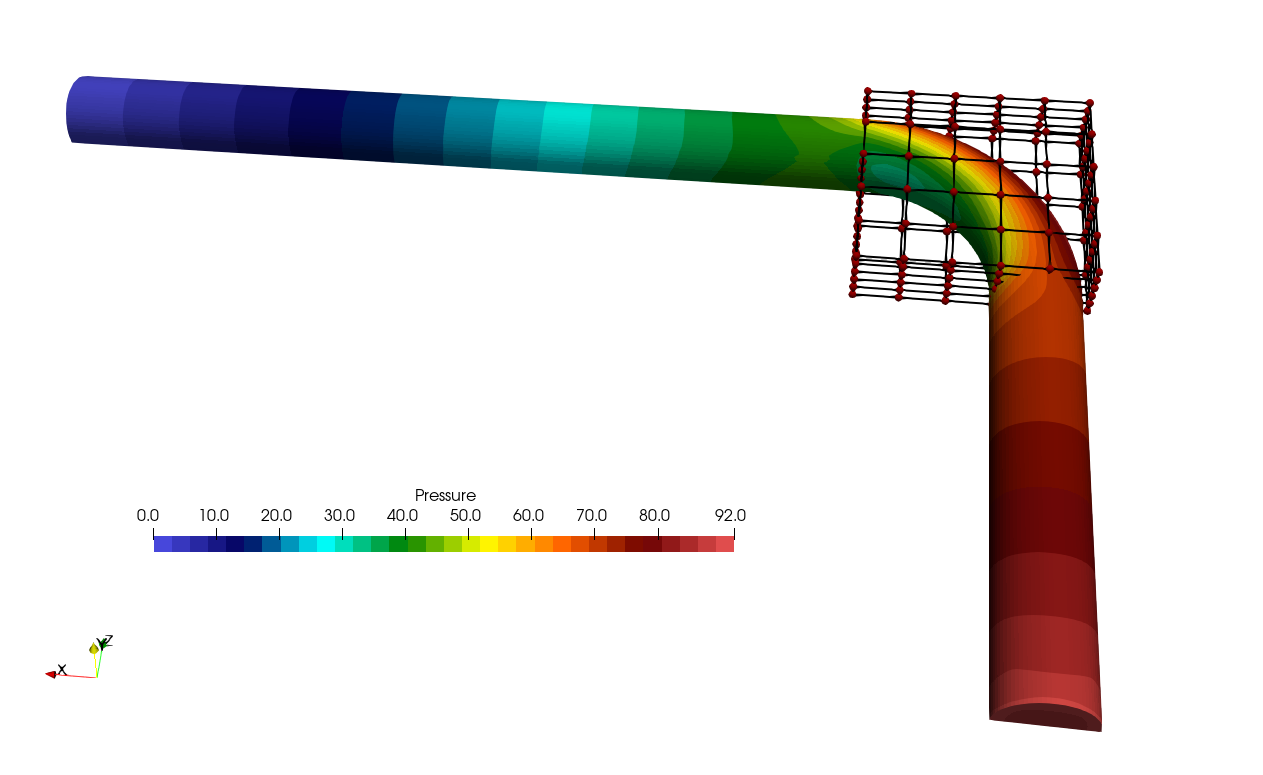
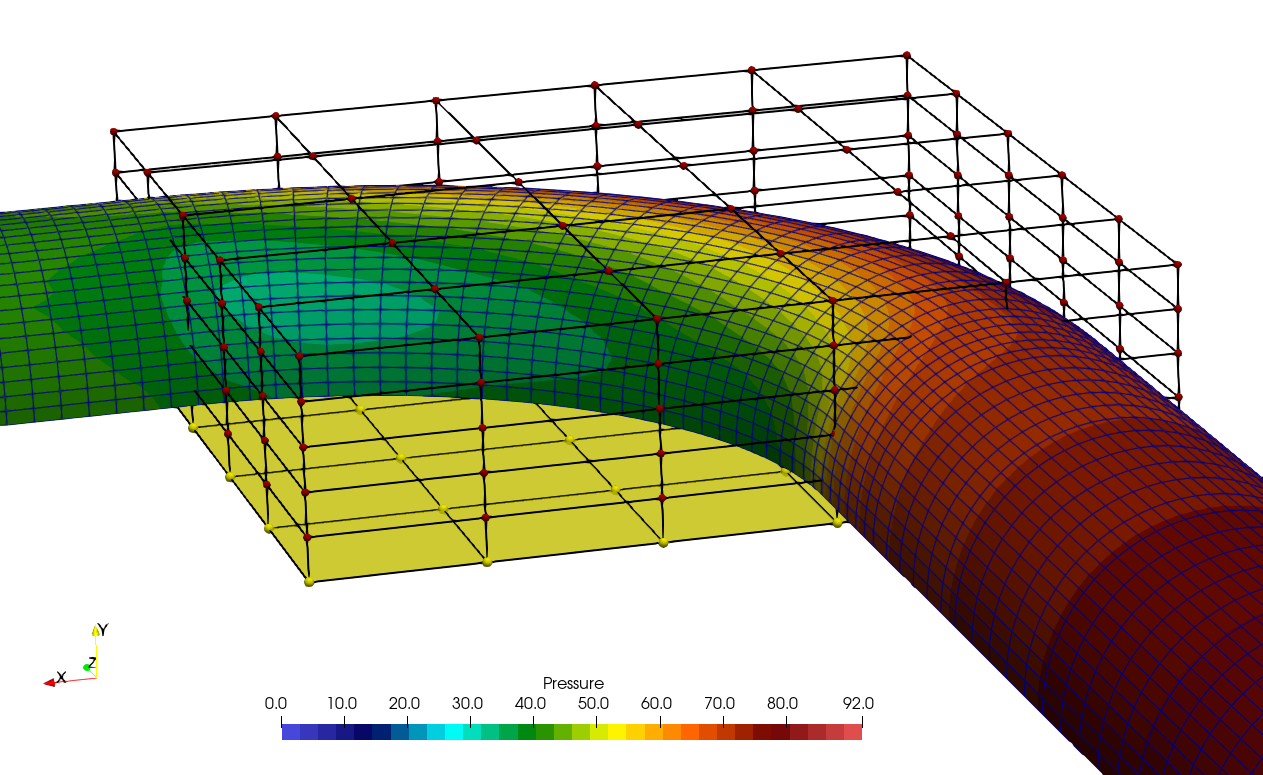
apply requested changes

diff --git a/_tutorials/design_features/Inc_Turbulent_Bend_Opt/Inc_Turbulent_Bend_Opt.md b/_tutorials/design_features/Inc_Turbulent_Bend_Opt/Inc_Turbulent_Bend_Opt.md
@@ -18,19 +18,9 @@ follows: Inc_Turbulent_Bend
 #### Figure (1): The 90 degree bend with the FFD box.
 
 
-## Prerequisites
-
-This Tutorial builds directly on the case given as Prerequisite on the top of the site, see [Species Transport](/tutorials/Species_Transport/) and [Turbulent bend with wall functions](/tutorials/Inc_Turbulent_Bend/). Therefore details to the problem setup, mesh, etc. are not repeated here. However the process outlined in this tutorial is directly applicable to many other cases using SU2.
-
-Note that the script provided uses 8 cores, so you need to compile with mpi support as well as enable autodiff:
-```
-./meson.py build --optimization=2 -Ddebug=false -Denable-autodiff=true -Dwith-mpi=enabled --prefix=/home/user/Codes/su2_github_develop/su2/
-```
-
-
 ## Goals
 
-This tutorial closely follows the design optimization setup of the 2D mixing channel. We will use the python framework [FADO](https://github.com/su2code/FADO) to set up the optimization problem. In this tutorial however we will optimize the pressure drop of the 90 degree pipe bend. The CFD results were already discussed previously in  [this tutorial](/tutorials/Inc_Turbulent_Bend/). Here we focus on the following aspects:
+This tutorial closely follows the design optimization setup of the 2D mixing channel, see the tutorial on design optimization for [Species Transport](/tutorials/Species_Transport/). We will use the python framework [FADO](https://github.com/su2code/FADO) to set up the optimization problem. In this tutorial however we will optimize the pressure drop of the 90 degree pipe bend. The CFD results were already discussed previously in  [this tutorial](/tutorials/Inc_Turbulent_Bend/). Here we focus on the following aspects:
 * Setup of the FFD box for a 3D problem using SU2_DEF.
 * Setup of the FADO problem: 
 	- using previous solutions of the CFD and adjoint solver to reduce computing time.
@@ -40,16 +30,23 @@ This tutorial closely follows the design optimization setup of the 2D mixing cha
 
 If you have not done so already, please first have a look at the prerequisite tutorials for a better understanding.
 
+## Prerequisites
+
+Besides the python library FADO, you will need to compile SU2 with automatic differentiation support. Note that the script provided uses 8 cores, so you need to compile with mpi support as well as enable autodiff:
+```
+./meson.py build --optimization=2 -Ddebug=false -Denable-autodiff=true -Dwith-mpi=enabled --prefix=/home/user/Codes/su2_github_develop/su2/
+```
+
 ## Resources
 
 You can find the resources for this tutorial in the folder [design/Inc_Turbulent_Bend_Wallfunctions](https://github.com/su2code/Tutorials/tree/master/design/Inc_Turbulent_Bend_Wallfunctions) and the respective subfolders. Note that the setup used in this tutorial uses a pipe bend with a shorter pipe length before and after the bend to reduce the computing time. We have also merged all wall boundaries and all symmetry planes into one wall boundary and one symmetry plane. The gmsh file is provided in the repository so you can create your own pipe bend(s) with it.
 
 ## 1. Basic setup of FFD box and FADO
-Usually, designs are created with a CAD tool. These designs are then discretized into a computational mesh for CFD analysis. When optimizing a design, we usually only have the discretized mesh available. We could manipulate the mesh nodes directly but this usually does not lead to very smooth deformations. Instead we modify our mesh using FFD boxes. The nodes of the FFD box are moved according to the design sensitivities, and the mesh nodes inside the FFD box are then smoothly deformed using Bezier curves (default) or B-splines.
+Usually, designs are created with a CAD tool. These designs are then discretized into a computational mesh for CFD analysis. When optimizing a design, we then only have the discretized mesh available. We could manipulate the mesh nodes directly but this does not lead to very smooth deformations. Instead we modify our mesh using FFD boxes. The nodes of the FFD box are moved according to the design sensitivities, and the mesh nodes inside the FFD box are then smoothly deformed using Bezier curves (default) or B-splines.
 Figure (1) above shows the setup that we will be using. 
 
 ### Creation of the FFD box
-The FFD box can be created and added to the .su2 mesh file using SU2_DEF. The important parameters are:
+The FFD box can be created and added to the .su2 mesh file using SU2_DEF. The important parameters to add to the configuration file are:
 
 ```
 FFD_DEFINITION= (BOX, \
@@ -74,12 +71,12 @@ We run the command
 $ SU2_DEF sudo_0_add_FFD_box.cfg
 ```
 
-This will create a new .su2 mesh called *mesh_out.su2* that has the definition of the FFD box added to the file. Note that at this stage we need to provide the boundaries inside the FFD box that are allowed to deform. The nodes on the boundaries inside the FFD box are part of the information that is added with the FFD box to the .su2 mesh file.
+We will only use the file *sudo_0_add_FFD_box.cfg* to create the FFD box. This command will create a new .su2 mesh called *mesh_out.su2* that has the definition of the FFD box added to the file. Note that at this stage we need to provide the boundaries inside the FFD box that are allowed to deform using the keyword **DV_MARKER**. The nodes on the boundaries inside the FFD box are part of the information that is added with the FFD box to the mesh_out.su2 mesh file. 
 
 
 ### Setup the FADO script optimization.py
 
-Previously the python script *set_ffd_design_var.py* was used in the tutorial on the optimization of the mixing channel. We can however create the correct entries with a couple of simple python commands and add them directly to the main python script that we will use, *optimization.py*. We already used *optimization.py* before in the tutorial [Species Transport](/tutorials/Species_Transport/) and we will highlight some changes here. 
+Previously the python script *set_ffd_design_var.py* was used in the tutorial on the optimization of the mixing channel. We can however create the correct entries with a couple of simple python commands and add them directly to the main python script that FADO will use, *optimization.py*. We already used *optimization.py* before in the tutorial [Species Transport](/tutorials/Species_Transport/) and we will highlight some changes here. 
 
 For the optimization, we need to modify 2 things in our config file: **DV_KIND** and **DV_PARAM**. The keyword **DV_PARAM** contains N entries of the form *( BOX, 0, 0, 0, 1.0, 0.0, 0.0 );*
  Note that the meaning of the entries are *( FFD_BoxTag, i_Ind, j_Ind, k_Ind, x_Disp, y_Disp, z_Disp )* , meaning that after the keyword **BOX**, we get the 3 indices i,j,k of the FFD box, followed by the allowed displacement of that index in the x-,y- and z-direction. Mesh nodes in the symmetry plane only move in the symmetry plane, so symmetry is preserved. 
@@ -91,7 +88,7 @@ ffd_string = s
 for i in range((DX**NDIM)*NDIM - 1):
   ffd_string = ffd_string + ", " + s 
 ```
-In the .cfg file we have a placeholder which has the form:
+In the sudo.cfg file we have a placeholder which has the form:
 ```
 DV_KIND= __FFD_CTRL_PTS__ 
 ```
@@ -133,12 +130,17 @@ Unfortunately, if we use this unconstrained setup, the mesh deformation will be 
 ![bend](../../../tutorials_files/design_features/Inc_Turbulent_Bend/mesh_deformation.png "Figure(2): bad mesh for unconstrained FFD box.")
 #### Figure (2): The unconstrained deformation leads to mesh cells that have collapsed on the symmetry plane. This leads to convergence issues at the next design iteration.
 
-So we need some additional constraints on the movement of the nodes of the FFD box.
+As you can see, the row of cells just above the symmetry plane has collapsed onto the symmetry plane, leading to a very bad mesh. In the next design iteration, the simulations do not converge anymore and the optimization procedure stops. So we need some additional constraints on the movement of the nodes of the FFD box.
 
 ### constrained FFD deformation
 
-The problem here is that the mesh nodes on the symmetry plane are not allowed to move vertically, they only move horizontally outward inside the symmetry plane. Unfortunately, the FFD deformation is such that mesh nodes just above the symmetry plane are moved down, almost on the symmetry plane. To improve the quality of the mesh deformation, we disallow the vertical movement of the FFD box nodes on the nodes in the bottom plane of the FFD box, with j-index 0 and vertical displacement (0,1,0). So we remove entries in the **DV_PARAM** list of the form *(BOX, i_Ind, 0, k_Ind, 0,1,0)*. Additionally, we also disallow the vertical movement of the nodes in the plane j=1.
+The problem here is that the mesh nodes on the symmetry plane are not allowed to move vertically, they only move horizontally outward inside the symmetry plane. Unfortunately, the FFD deformation is such that mesh nodes just above the symmetry plane are moved down, almost on the symmetry plane. To improve the quality of the mesh deformation, we disallow the vertical movement of the FFD box nodes on the nodes in the bottom plane of the FFD box, with j-index 0 and vertical displacement (0,1,0). In Figure (3), the plane with index j=0 is the bottom plane, indicated in yellow. So we remove entries in the **DV_PARAM** list of the form *(BOX, i_Ind, 0, k_Ind, 0,1,0)*. Additionally, we also disallow the vertical movement of the nodes in the plane j=1.
 Since we disallow vertical movement in 2x(6x6)=72 nodes in the planes with $j=0$ and $j=1$,  The total degrees of freedom is then $648 - 72 = 576$ d.o.f. 
+
+
+![Pressure bend](../../../tutorials_files/design_features/Inc_Turbulent_Bend/opt_iter0_pressure_ffdbox.png "Pressure distribution")
+#### Figure (3): The 90 degree bend with the FFD box.
+
 
 The number of design variables needs to be reduced by 2x6x6 and we need to remove 2x6x6 strings from the ffd_string:
 ```python
@@ -185,7 +187,8 @@ So what we will do now is every time after we run the primal solver, we copy the
 cfd_command = "mpirun -n " + ncores + " " + su2_run + "SU2_CFD " + configMaster  + "&& cp restart.csv ../../solution.csv"
 ```
 
-Note that the primal solver by default saves the file restart.csv (keyword: **RESTART_FILENAME= restart**), but reads the file solution.csv (keyword: **SOLUTION_FILENAME= solution**). Note that we save ASCII files here, which is determined by the option **OUTPUT_FILES= RESTART_ASCII**. When reading ASCII restart files, we also need **READ_BINARY_RESTART= NO**.   
+Note that the primal solver by default saves the file restart.csv (keyword: **RESTART_FILENAME= restart**), but reads the file solution.csv (keyword: **SOLUTION_FILENAME= solution**). Note that we save ASCII files here, which is determined by the option **OUTPUT_FILES= RESTART_ASCII**. When reading ASCII restart files, we also need **READ_BINARY_RESTART= NO**.
+Please go through the *optimization.py* script now and check the settings. By default, the above procedure to restart from a previous solution is not active. You can activate it now if you wish.
 
 ## 2. FADO optimized result
 
@@ -195,10 +198,7 @@ We run the optimization script:
 $ python optimization.py
 ```
 
-We have set it to run 5 design iterations. 
-
-![Pressure bend](../../../tutorials_files/design_features/Inc_Turbulent_Bend/opt_iter0_pressure_ffdbox.png "Pressure distribution")
-#### Figure (3): The 90 degree bend with the FFD box.
+We have set it to run 5 design iterations. Please note that the optimization was set up for a parallel run.
 
 The objective values for the 5 design iterations are given in the table below.
 
@@ -216,5 +216,3 @@ We see that the global pressure drop between the inlet and the outlet reduces fr
 
 ![Optimized bend](../../../tutorials_files/design_features/Inc_Turbulent_Bend/opt_iter5_pressure_ffdbox.png "Optimized bend")
 #### Figure (4): Optimized bend after 5 design iterations, with the deformed FFD box.
-
-
